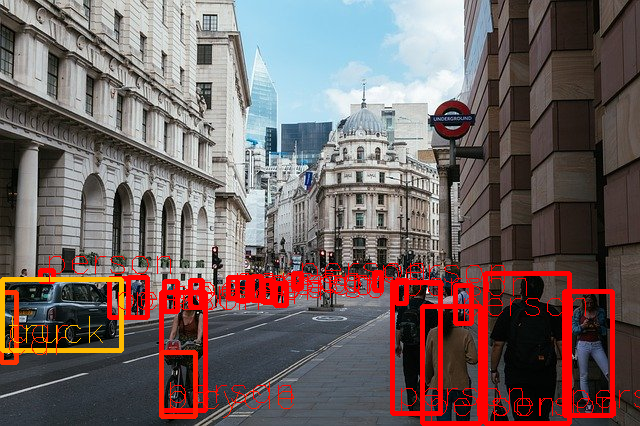
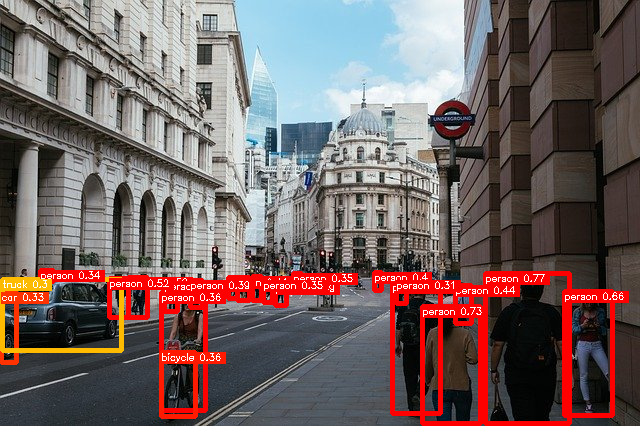
Update detection result images

diff --git a/object_detection/efficientdet/efficientdet.py b/object_detection/efficientdet/efficientdet.py
@@ -11,7 +11,7 @@ import ailia
 sys.path.append('../../util')
 from utils import get_base_parser, update_parser, get_savepath  # noqa: E402
 from model_utils import check_and_download_models  # noqa: E402
-from detector_utils import load_image  # noqa: E402
+from detector_utils import load_image, plot_results  # noqa: E402
 from nms_utils import bb_intersection_over_union  # noqa: E402
 from webcamera_utils import get_capture  # noqa: E402
 
@@ -191,22 +191,26 @@ def postprocess(
     return out
 
 
-def display(preds, imgs):
-    for i in range(len(imgs)):
-        if len(preds[i]['rois']) == 0:
-            continue
+def convert_to_ailia_detector_object(preds, w, h):
+    i = 0
+    detector_object = []
+    for j in range(len(preds[i]['rois'])):
+        (x1, y1, x2, y2) = preds[i]['rois'][j].astype(np.int)
+        obj = preds[i]['class_ids'][j]
+        score = float(preds[i]['scores'][j])
 
-        for j in range(len(preds[i]['rois'])):
-            (x1, y1, x2, y2) = preds[i]['rois'][j].astype(np.int)
-            cv2.rectangle(imgs[i], (x1, y1), (x2, y2), (255, 255, 0), 2)
-            obj = obj_list[preds[i]['class_ids'][j]]
-            score = float(preds[i]['scores'][j])
+        r = ailia.DetectorObject(
+            category=obj,
+            prob=score,
+            x=x1 / w,
+            y=y1 / h,
+            w=(x2 - x1) / w,
+            h=(y2 - y1) / h,
+        )
 
-            cv2.putText(imgs[i], '{}, {:.3f}'.format(obj, score),
-                        (x1, y1 + 10), cv2.FONT_HERSHEY_SIMPLEX, 0.5,
-                        (255, 255, 0), 1)
+        detector_object.append(r)
 
-    return imgs
+    return detector_object
 
 
 # ======================
@@ -267,26 +271,26 @@ def recognize_from_image(image_path, net):
     # inference
     logger.info('Start inference...')
     if args.benchmark:
-        # if not args.onnx:
-        #    net.set_profile_mode(True)
+        if not args.profile:
+            net.set_profile_mode(True)
         logger.info('BENCHMARK mode')
         for i in range(5):
             start = int(round(time.time() * 1000))
             pred = predict(img, net)
             end = int(round(time.time() * 1000))
             logger.info(f'\tailia processing time {end - start} ms')
-        # if not args.onnx:
-        #    print(net.get_summary())
+        if not args.profile:
+            print(net.get_summary())
     else:
         pred = predict(img, net)
 
     # plot result
-    imgs = display(pred, [img])
+    detect_object = convert_to_ailia_detector_object(pred, img.shape[1], img.shape[0])
+    img = plot_results(detect_object, img, obj_list)
 
-    # plot result
     savepath = get_savepath(args.savepath, image_path)
     logger.info(f'saved at : {savepath}')
-    cv2.imwrite(savepath, imgs[0])
+    cv2.imwrite(savepath, img)
 
     if args.profile:
         print(net.get_summary())
@@ -305,8 +309,10 @@ def recognize_from_video(video, net):
         pred = predict(frame, net)
 
         # plot result
-        imgs = display(pred, [frame])
-        cv2.imshow('frame', imgs[0])
+        detect_object = convert_to_ailia_detector_object(pred, frame.shape[1], frame.shape[0])
+        img = plot_results(detect_object, frame, obj_list)
+
+        cv2.imshow('frame', img)
 
     capture.release()
     logger.info('Script finished successfully.')

diff --git a/object_detection/m2det/m2det.py b/object_detection/m2det/m2det.py
@@ -10,7 +10,7 @@ import ailia
 sys.path.append('../../util')
 from utils import get_base_parser, update_parser, get_savepath  # noqa: E402
 from model_utils import check_and_download_models  # noqa: E402
-from detector_utils import load_image  # noqa: E402
+from detector_utils import plot_results, load_image  # noqa: E402
 import webcamera_utils  # noqa: E402
 
 # logger
@@ -115,25 +115,23 @@ BASE = int(np.ceil(pow(len(COCO_CATEGORY), 1. / 3)))
 COLORS = [to_color(x, BASE) for x in range(len(COCO_CATEGORY))]
 
 
-def draw_detection(im, bboxes, scores, cls_inds):
-    imgcv = np.copy(im)
-    h, w, _ = imgcv.shape
+def convert_to_ailia_detector_object(bboxes, scores, cls_inds, w, h):
+    detector_object = []
     for i, box in enumerate(bboxes):
         cls_indx = int(cls_inds[i])
-        box = [int(_) for _ in box]
-        thick = int((h + w) / 300)
-        cv2.rectangle(
-            imgcv,
-            (box[0], box[1]),
-            (box[2], box[3]),
-            COLORS[cls_indx],
-            thick
-        )
-        mess = '%s: %.3f' % (COCO_CATEGORY[cls_indx], scores[i])
-        cv2.putText(imgcv, mess, (box[0], box[1] - 7),
-                    0, 1e-3 * h, COLORS[cls_indx], thick // 3)
-    return imgcv
 
+        r = ailia.DetectorObject(
+            category=cls_indx,
+            prob=scores[i],
+            x=box[0] / w,
+            y=box[1] / h,
+            w=(box[2] - box[0]) / w,
+            h=(box[3] - box[1]) / h,
+        )
+
+        detector_object.append(r)
+
+    return detector_object
 
 # ======================
 # Main functions
@@ -212,10 +210,12 @@ def recognize_from_image(filename, detector):
         pass
 
     # show image
-    im2show = draw_detection(img, boxes, scores, cls_inds)
+    detect_object = convert_to_ailia_detector_object(boxes, scores, cls_inds, img.shape[1], img.shape[0])
+    img = plot_results(detect_object, img, COCO_CATEGORY)
+
     savepath = get_savepath(args.savepath, filename)
     logger.info(f'saved at : {savepath}')
-    cv2.imwrite(savepath, im2show)
+    cv2.imwrite(savepath, img)
 
     if args.profile:
         print(detector.get_summary())
@@ -241,7 +241,10 @@ def recognize_from_video(video, detector):
             break
 
         boxes, scores, cls_inds = detect_objects(img, detector)
-        img = draw_detection(img, boxes, scores, cls_inds)
+
+        # show image
+        detect_object = convert_to_ailia_detector_object(boxes, scores, cls_inds, img.shape[1], img.shape[0])
+        img = plot_results(detect_object, img, COCO_CATEGORY)
         cv2.imshow('frame', img)
 
         # save results

diff --git a/util/detector_utils.py b/util/detector_utils.py
@@ -163,7 +163,7 @@ def plot_results(detector, img, category, segm_masks=None, logging=True):
         color = colors[idx]
         cv2.rectangle(img, top_left, bottom_right, color, thickness=-1)
 
-        text_color = (255,255,255)
+        text_color = (255,255,255,255)
         cv2.putText(
             img,
             text,
